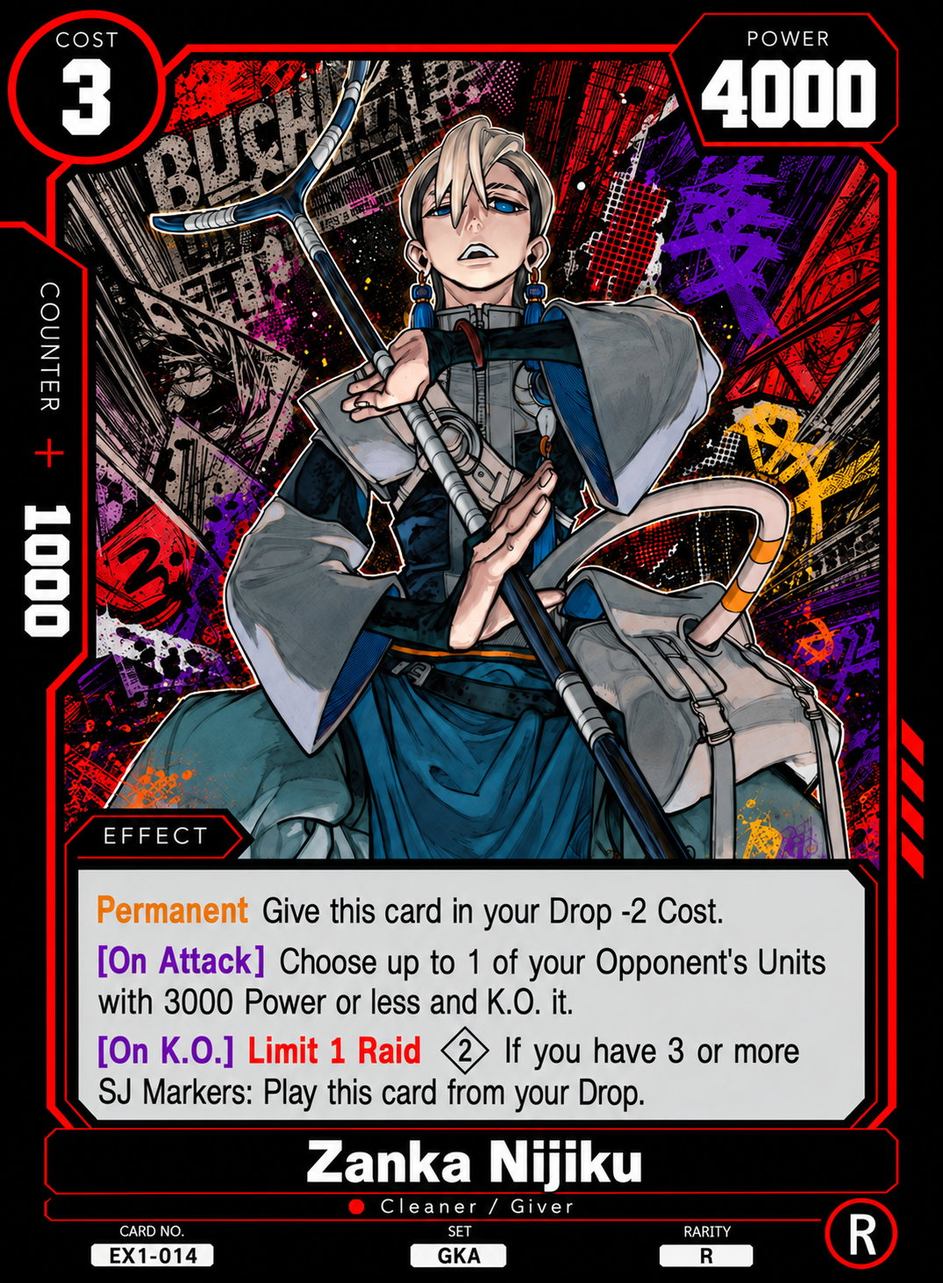
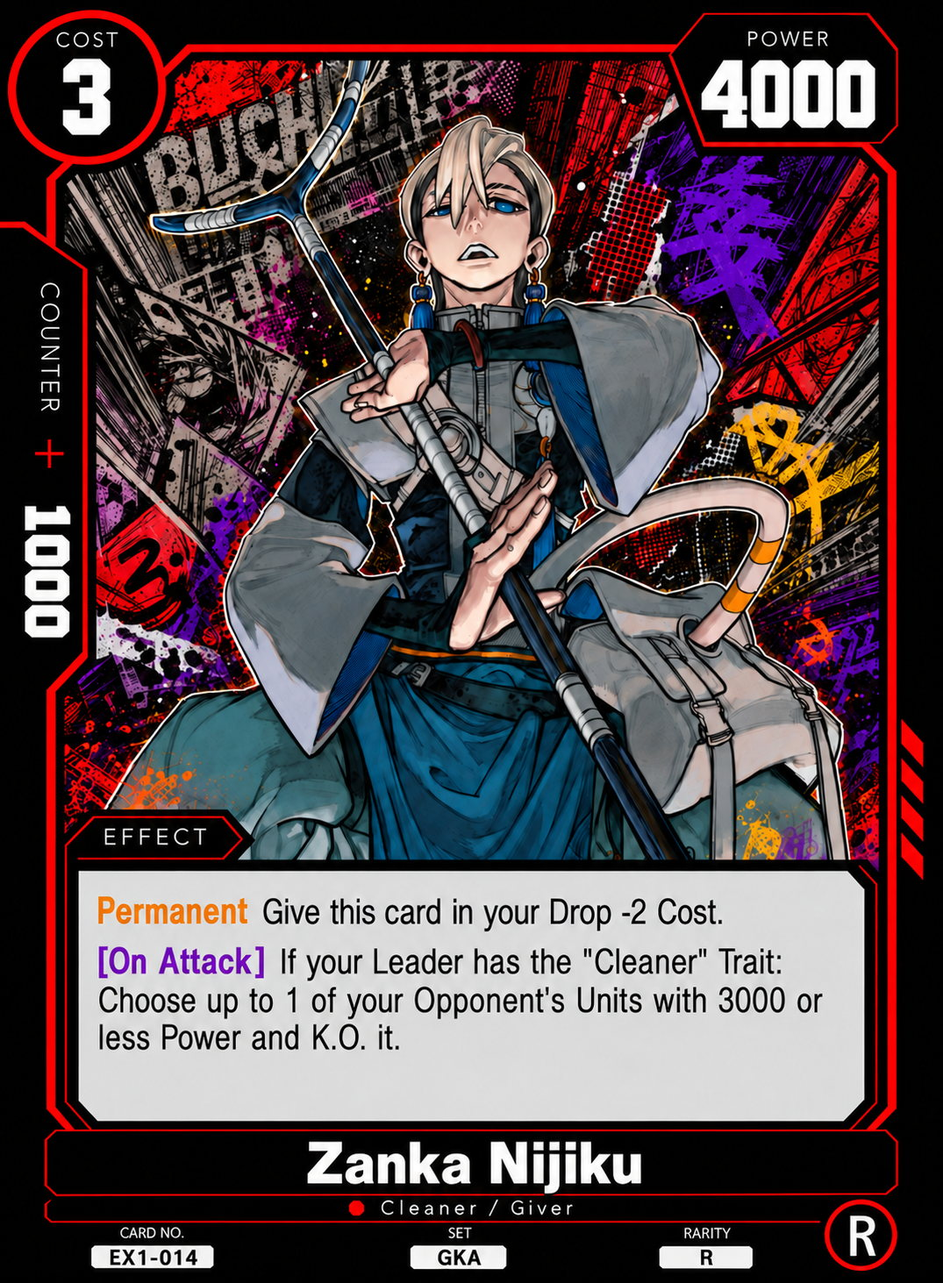
Apply latest ST1 cycle print fixes

diff --git a/card-text-data.js b/card-text-data.js
@@ -1958,7 +1958,7 @@ window.SJTCG_CARD_TEXT = {
     "card_no": "ST1-086",
     "name": "Asakura Yoh",
     "color": "Blue",
-    "cost": "1",
+    "cost": "2",
     "sj_cost": "",
     "life": "",
     "power": "2000",
@@ -1981,7 +1981,7 @@ window.SJTCG_CARD_TEXT = {
     "card_no": "ST1-087",
     "name": "Asakura Yoh",
     "color": "Blue",
-    "cost": "1",
+    "cost": "2",
     "sj_cost": "",
     "life": "",
     "power": "2000",
@@ -2036,8 +2036,8 @@ window.SJTCG_CARD_TEXT = {
     "set": "SMK",
     "rarity": "C",
     "bottom_right_circle": "B",
-    "effect": "[Your Turn] Give this card +1 Cost and +1000 Power for each card under it.\n[Activate: Main] Once per Turn Play 1 \"Amidamaru\" from under this card: Choose up to 1 of your Opponent's Units and give it -1 Cost for the turn.",
-    "effect_html": "<span class=\"kw kw-purple\" title=\"Timing window\">[Your Turn]</span> Give this card +1 Cost and +1000 Power for each card under it.<br><span class=\"kw kw-purple\" title=\"Timing window\">[Activate: Main]</span> <span class=\"kw kw-orange\" title=\"Once per Turn\">Once per Turn</span> Play 1 &quot;Amidamaru&quot; from under this card: Choose up to 1 of your Opponent&#x27;s Units and give it -1 Cost for the turn.",
+    "effect": "[Your Turn] Give this card +1 Cost and +1000 Power for each card under it.\n[Activate: Main] Limit 1 Play 1 \"Amidamaru\" from under this card: Choose up to 1 of your Opponent's Units and give it -1 Cost for the turn.",
+    "effect_html": "<span class=\"kw kw-purple\" title=\"Timing window\">[Your Turn]</span> Give this card +1 Cost and +1000 Power for each card under it.<br><span class=\"kw kw-purple\" title=\"Timing window\">[Activate: Main]</span> <span class=\"kw kw-red\" title=\"Limit X\">Limit 1</span> Play 1 &quot;Amidamaru&quot; from under this card: Choose up to 1 of your Opponent&#x27;s Units and give it -1 Cost for the turn.",
     "notes": "",
     "transcription_status": "verified",
     "release": "ST1",
@@ -2082,8 +2082,8 @@ window.SJTCG_CARD_TEXT = {
     "set": "SMK",
     "rarity": "C",
     "bottom_right_circle": "B",
-    "effect": "[Your Turn] Give this card +1 Cost and +1000 Power for each card under it.\n[Activate: Main] Once per Turn Play 1 \"Amidamaru\" from under this card: Choose up to 1 of your Opponent's Units with a Cost of 1 or less and place it at the bottom of its owner's Deck.",
-    "effect_html": "<span class=\"kw kw-purple\" title=\"Timing window\">[Your Turn]</span> Give this card +1 Cost and +1000 Power for each card under it.<br><span class=\"kw kw-purple\" title=\"Timing window\">[Activate: Main]</span> <span class=\"kw kw-orange\" title=\"Once per Turn\">Once per Turn</span> Play 1 &quot;Amidamaru&quot; from under this card: Choose up to 1 of your Opponent&#x27;s Units with a Cost of 1 or less and place it at the bottom of its owner&#x27;s Deck.",
+    "effect": "[Your Turn] Give this card +1 Cost and +1000 Power for each card under it.\n[Activate: Main] Limit 1 Play 1 \"Amidamaru\" from under this card: Choose up to 1 of your Opponent's Units with a Cost of 1 or less and place it at the bottom of its owner's Deck.",
+    "effect_html": "<span class=\"kw kw-purple\" title=\"Timing window\">[Your Turn]</span> Give this card +1 Cost and +1000 Power for each card under it.<br><span class=\"kw kw-purple\" title=\"Timing window\">[Activate: Main]</span> <span class=\"kw kw-red\" title=\"Limit X\">Limit 1</span> Play 1 &quot;Amidamaru&quot; from under this card: Choose up to 1 of your Opponent&#x27;s Units with a Cost of 1 or less and place it at the bottom of its owner&#x27;s Deck.",
     "notes": "",
     "transcription_status": "verified",
     "release": "ST1",
@@ -2105,8 +2105,8 @@ window.SJTCG_CARD_TEXT = {
     "set": "SMK",
     "rarity": "C",
     "bottom_right_circle": "B",
-    "effect": "[Opponent's Turn] Give this card +1 Cost and +1000 Power for each card under it.\n[On Attack] If there is a card under your Leader and this card: Choose all of your Opponent's Units and give them -1 Cost for the turn.\n[Activate: Main] Once per Turn Play 1 \"Amidamaru\" from under this card: At the end of the turn, switch this card to Active mode and give it Blocker until the end of your Opponent's next turn.",
-    "effect_html": "<span class=\"kw kw-purple\" title=\"Timing window\">[Opponent&#x27;s Turn]</span> Give this card +1 Cost and +1000 Power for each card under it.<br><span class=\"kw kw-purple\" title=\"Timing window\">[On Attack]</span> If there is a card under your Leader and this card: Choose all of your Opponent&#x27;s Units and give them -1 Cost for the turn.<br><span class=\"kw kw-purple\" title=\"Timing window\">[Activate: Main]</span> <span class=\"kw kw-orange\" title=\"Once per Turn\">Once per Turn</span> Play 1 &quot;Amidamaru&quot; from under this card: At the end of the turn, switch this card to Active mode and give it <span class=\"kw kw-red\" title=\"Blocker\">Blocker</span> until the end of your Opponent&#x27;s next turn.",
+    "effect": "[Opponent's Turn] Give this card +1 Cost and +1000 Power for each card under it.\n[Activate: Main] Once per Turn Play 1 \"Amidamaru\" from under this card: At the end of the turn, switch this card to Active mode and give it Blocker until the end of your Opponent's next turn.",
+    "effect_html": "<span class=\"kw kw-purple\" title=\"Timing window\">[Opponent&#x27;s Turn]</span> Give this card +1 Cost and +1000 Power for each card under it.<br><span class=\"kw kw-purple\" title=\"Timing window\">[Activate: Main]</span> <span class=\"kw kw-orange\" title=\"Once per Turn\">Once per Turn</span> Play 1 &quot;Amidamaru&quot; from under this card: At the end of the turn, switch this card to Active mode and give it <span class=\"kw kw-red\" title=\"Blocker\">Blocker</span> until the end of your Opponent&#x27;s next turn.",
     "notes": "",
     "transcription_status": "verified",
     "release": "ST1",
@@ -14277,10 +14277,10 @@ window.SJTCG_CARD_TEXT = {
     "counter": "1000",
     "traits": "Cleaner / Giver",
     "set": "GKA",
-    "rarity": "SR",
+    "rarity": "R",
     "bottom_right_circle": "R",
-    "effect": "[Your Turn] Give this card +1000 Power for every 2 of your SJ Markers.\n[Activate: Main] Raid {1} Give this card Unblockable for the turn.",
-    "effect_html": "<span class=\"kw kw-purple\" title=\"Timing window\">[Your Turn]</span> Give this card +1000 Power for every 2 of your SJ Markers.<br><span class=\"kw kw-purple\" title=\"Timing window\">[Activate: Main]</span> <span class=\"kw kw-red\" title=\"Raid\">Raid</span> {1} Give this card <span class=\"kw kw-red\" title=\"Unblockable\">Unblockable</span> for the turn.",
+    "effect": "Permanent Give this card +1000 Power for each of your SJ Markers.\n[Activate: Main] Raid {1} Give this card Unblockable for the turn.",
+    "effect_html": "<span class=\"kw kw-orange\" title=\"Permanent\">Permanent</span> Give this card +1000 Power for each of your SJ Markers.<br><span class=\"kw kw-purple\" title=\"Timing window\">[Activate: Main]</span> <span class=\"kw kw-red\" title=\"Raid\">Raid</span> {1} Give this card <span class=\"kw kw-red\" title=\"Unblockable\">Unblockable</span> for the turn.",
     "notes": "",
     "transcription_status": "verified",
     "release": "EX1",
@@ -14394,8 +14394,8 @@ window.SJTCG_CARD_TEXT = {
     "set": "GKA",
     "rarity": "R",
     "bottom_right_circle": "R",
-    "effect": "Permanent Give this card in your Drop -2 Cost.\n[On Attack] Choose up to 1 of your Opponent's Units with 3000 Power or less and K.O. it.\n[On K.O.] Limit 1 Raid {2} If you have 3 or more SJ Markers: Play this card from your Drop.",
-    "effect_html": "<span class=\"kw kw-orange\" title=\"Permanent\">Permanent</span> Give this card in your Drop -2 Cost.<br><span class=\"kw kw-purple\" title=\"Timing window\">[On Attack]</span> Choose up to 1 of your Opponent&#x27;s Units with 3000 Power or less and K.O. it.<br><span class=\"kw kw-purple\" title=\"Timing window\">[On K.O.]</span> <span class=\"kw kw-red\" title=\"Limit X\">Limit 1</span> <span class=\"kw kw-red\" title=\"Raid\">Raid</span> {2} If you have 3 or more SJ Markers: Play this card from your Drop.",
+    "effect": "Permanent Give this card in your Drop -2 Cost.\n[On Attack] If your Leader has the \"Cleaner\" Trait: Choose up to 1 of your Opponent's Units with 3000 or less Power and K.O. it.",
+    "effect_html": "<span class=\"kw kw-orange\" title=\"Permanent\">Permanent</span> Give this card in your Drop -2 Cost.<br><span class=\"kw kw-purple\" title=\"Timing window\">[On Attack]</span> If your Leader has the &quot;Cleaner&quot; Trait: Choose up to 1 of your Opponent&#x27;s Units with 3000 or less Power and K.O. it.",
     "notes": "",
     "transcription_status": "verified",
     "release": "EX1",
@@ -14440,8 +14440,8 @@ window.SJTCG_CARD_TEXT = {
     "set": "GKA",
     "rarity": "R",
     "bottom_right_circle": "R",
-    "effect": "[Activate: Battle] Give your card that's in a battle +1000 Power for each of your SJ Markers.",
-    "effect_html": "<span class=\"kw kw-purple\" title=\"Timing window\">[Activate: Battle]</span> Give your card that&#x27;s in a battle +1000 Power for each of your SJ Markers.",
+    "effect": "[Activate: Battle] Give your \"Riyo Reaper\" that's in a battle +1000 Power for each of your SJ Markers for the battle.\n[Activate: Main] Limit 1 If your Leader has the \"Cleaner\" Trait: Remove this card in your Drop from the game and, if you have 1 or less SJ Markers, Accelcharge 1.",
+    "effect_html": "<span class=\"kw kw-purple\" title=\"Timing window\">[Activate: Battle]</span> Give your &quot;Riyo Reaper&quot; that&#x27;s in a battle +1000 Power for each of your SJ Markers for the battle.<br><span class=\"kw kw-purple\" title=\"Timing window\">[Activate: Main]</span> <span class=\"kw kw-red\" title=\"Limit X\">Limit 1</span> If your Leader has the &quot;Cleaner&quot; Trait: Remove this card in your Drop from the game and, if you have 1 or less SJ Markers, <span class=\"kw kw-orange\" title=\"Accelcharge\">Accelcharge</span> 1.",
     "notes": "",
     "transcription_status": "verified",
     "release": "EX1",
@@ -14463,8 +14463,8 @@ window.SJTCG_CARD_TEXT = {
     "set": "GKA",
     "rarity": "R",
     "bottom_right_circle": "R",
-    "effect": "[Activate: Main] Limit 1 Remove 1 SJ Marker: Give all Unit cards with the \"Cleaner\" Trait in your Drop -1 Cost for the turn.\nClash [Opponent's Attack] (1) Give your card that's in a battle +2000 Power for the battle.",
-    "effect_html": "<span class=\"kw kw-purple\" title=\"Timing window\">[Activate: Main]</span> <span class=\"kw kw-red\" title=\"Limit X\">Limit 1</span> Remove 1 SJ Marker: Give all Unit cards with the &quot;Cleaner&quot; Trait in your Drop -1 Cost for the turn.<br><span class=\"kw kw-green\" title=\"Clash\">Clash</span> <span class=\"kw kw-purple\" title=\"Timing window\">[Opponent&#39;s Attack]</span> (1) Give your card that&#39;s in a battle +2000 Power for the battle.",
+    "effect": "[Activate: Main] Limit 1 Remove 1 SJ Marker: Give all Unit cards with a Cost of 7 or less and the \"Cleaner\" Trait in your Drop -1 Cost for the turn.\nClash [Opponent's Attack] (1) Give your card that's in a battle +2000 Power for the battle.",
+    "effect_html": "<span class=\"kw kw-purple\" title=\"Timing window\">[Activate: Main]</span> <span class=\"kw kw-red\" title=\"Limit X\">Limit 1</span> Remove 1 SJ Marker: Give all Unit cards with a Cost of 7 or less and the &quot;Cleaner&quot; Trait in your Drop -1 Cost for the turn.<br><span class=\"kw kw-green\" title=\"Clash\">Clash</span> <span class=\"kw kw-purple\" title=\"Timing window\">[Opponent&#x27;s Attack]</span> (1) Give your card that&#x27;s in a battle +2000 Power for the battle.",
     "notes": "",
     "transcription_status": "verified",
     "release": "EX1",
@@ -14532,8 +14532,8 @@ window.SJTCG_CARD_TEXT = {
     "set": "GKA",
     "rarity": "R",
     "bottom_right_circle": "R",
-    "effect": "[On Play] If your Leader has the \"Cleaner\" Trait, choose all of your Opponent's Units and give them -2000 Power until the end of your Opponent's next turn.\nClash [Opponent's Attack] (1) If you have 3 or more SJ Markers: Return this card to your JUMP Deck; Negate the attack. Then, shuffle up to 5 Unit cards with the \"Cleaner\" Trait from your Drop into your Deck.",
-    "effect_html": "<span class=\"kw kw-purple\" title=\"Timing window\">[On Play]</span> If your Leader has the &quot;Cleaner&quot; Trait, choose all of your Opponent&#x27;s Units and give them -2000 Power until the end of your Opponent&#x27;s next turn.<br><span class=\"kw kw-green\" title=\"Clash\">Clash</span> <span class=\"kw kw-purple\" title=\"Timing window\">[Opponent&#x27;s Attack]</span> (1) If you have 3 or more SJ Markers: Return this card to your JUMP Deck; Negate the attack. Then, shuffle up to 5 Unit cards with the &quot;Cleaner&quot; Trait from your Drop into your Deck.",
+    "effect": "[On Play] If your Leader has the \"Cleaner\" Trait: Choose all of your Opponent's Units and give them -1000 Power until the end of your Opponent's next turn.\nClash [Opponent's Attack] (1) Remove this card from the game: Negate the attack. Then, shuffle up to 5 Unit cards with the \"Cleaner\" Trait from your Drop into your Deck.",
+    "effect_html": "<span class=\"kw kw-purple\" title=\"Timing window\">[On Play]</span> If your Leader has the &quot;Cleaner&quot; Trait: Choose all of your Opponent&#x27;s Units and give them -1000 Power until the end of your Opponent&#x27;s next turn.<br><span class=\"kw kw-green\" title=\"Clash\">Clash</span> <span class=\"kw kw-purple\" title=\"Timing window\">[Opponent&#x27;s Attack]</span> (1) Remove this card from the game: Negate the attack. Then, shuffle up to 5 Unit cards with the &quot;Cleaner&quot; Trait from your Drop into your Deck.",
     "notes": "",
     "transcription_status": "verified",
     "release": "EX1",
@@ -17407,8 +17407,8 @@ window.SJTCG_CARD_TEXT = {
     "set": "JBA",
     "rarity": "C",
     "bottom_right_circle": "P",
-    "effect": "[On Play] Give 1 of your Units -1000 Power for the turn: Give your Leader +1000 Power for the turn.\n[Activate: Main] If your Leader is \"Toru\": Remove this card from the game and add 1 card from your Life to your hand; your Opponent adds a card from their Life to their hand. Then, you may add up to 1 card from your hand at the top of your Life; your Opponent places that many cards from their hand at the top of their Life.",
-    "effect_html": "<span class=\"kw kw-purple\" title=\"Timing window\">[On Play]</span> Give 1 of your Units -1000 Power for the turn: Give your Leader +1000 Power for the turn.<br><span class=\"kw kw-purple\" title=\"Timing window\">[Activate: Main]</span> If your Leader is &quot;Toru&quot;: Remove this card from the game and add 1 card from your Life to your hand; your Opponent adds a card from their Life to their hand. Then, you may add up to 1 card from your hand at the top of your Life; your Opponent places that many cards from their hand at the top of their Life.",
+    "effect": "[On Play] Give 1 of your Units -1000 Power for the turn: Give your Leader +1000 Power for the turn.\n[Activate: Main] Remove this card from the game and add 1 card from your Life to your hand: If your Leader is \"Toru\", add a card from your Life to your hand; your Opponent adds a card from their Life to their hand. Then, your Opponent may add a card from their hand at the top of their Life and, if they do, add a card from your hand at the top of your Life.",
+    "effect_html": "<span class=\"kw kw-purple\" title=\"Timing window\">[On Play]</span> Give 1 of your Units -1000 Power for the turn: Give your Leader +1000 Power for the turn.<br><span class=\"kw kw-purple\" title=\"Timing window\">[Activate: Main]</span> Remove this card from the game and add 1 card from your Life to your hand: If your Leader is &quot;Toru&quot;, add a card from your Life to your hand; your Opponent adds a card from their Life to their hand. Then, your Opponent may add a card from their hand at the top of their Life and, if they do, add a card from your hand at the top of your Life.",
     "notes": "",
     "transcription_status": "verified",
     "release": "SD2",
@@ -23083,8 +23083,8 @@ window.SJTCG_CARD_TEXT = {
     "set": "HNI",
     "rarity": "P",
     "bottom_right_circle": "R",
-    "effect": "[On Play] Give your Leader or up to 1 of your Units with the \"Boxer\" Trait +1000 Power for the turn.\n[Activate: Main] Limit 1 Return this card to your JUMP Deck: Choose up to 1 of your Opponent's Units and give it -5000 Power for the turn.",
-    "effect_html": "<span class=\"kw kw-purple\" title=\"Timing window\">[On Play]</span> Give your Leader or up to 1 of your Units with the &quot;Boxer&quot; Trait +1000 Power for the turn.<br><span class=\"kw kw-purple\" title=\"Timing window\">[Activate: Main]</span> <span class=\"kw kw-red\" title=\"Limit X\">Limit 1</span> Return this card to your JUMP Deck: Choose up to 1 of your Opponent&#x27;s Units and give it -5000 Power for the turn.",
+    "effect": "[On Play] Give your Leader or up to 1 of your Units with the \"Boxer\" Trait +1000 Power for the turn.\n[Activate: Main] Limit 1 Return this card to your JUMP Deck: Choose up to 1 of your Opponent's Units and give it -2000 Power for the turn.",
+    "effect_html": "<span class=\"kw kw-purple\" title=\"Timing window\">[On Play]</span> Give your Leader or up to 1 of your Units with the &quot;Boxer&quot; Trait +1000 Power for the turn.<br><span class=\"kw kw-purple\" title=\"Timing window\">[Activate: Main]</span> <span class=\"kw kw-red\" title=\"Limit X\">Limit 1</span> Return this card to your JUMP Deck: Choose up to 1 of your Opponent&#x27;s Units and give it -2000 Power for the turn.",
     "notes": "",
     "transcription_status": "verified",
     "release": "PUP",
@@ -23221,8 +23221,8 @@ window.SJTCG_CARD_TEXT = {
     "set": "SMK",
     "rarity": "P",
     "bottom_right_circle": "B",
-    "effect": "Barrier Blocker\n[On Play / On Block] You may place 1 card from under your Leader in your Drop: Give up to 1 of your \"Asakura Yoh\" +1000 Power for the turn.\n[Activate: Battle] Remove all cards from under this card from the game: Choose up to 1 of your Opponent's Units, ignoring Barrier, and place it at the bottom of its owner's Deck.",
-    "effect_html": "<span class=\"kw kw-red\" title=\"Barrier\">Barrier</span> <span class=\"kw kw-red\" title=\"Blocker\">Blocker</span><br><span class=\"kw kw-purple\" title=\"Timing window\">[On Play / On Block]</span> You may place 1 card from under your Leader in your Drop: Give up to 1 of your &quot;Asakura Yoh&quot; +1000 Power for the turn.<br><span class=\"kw kw-purple\" title=\"Timing window\">[Activate: Battle]</span> Remove all cards from under this card from the game: Choose up to 1 of your Opponent&#39;s Units, ignoring <span class=\"kw kw-red\" title=\"Barrier\">Barrier</span>, and place it at the bottom of its owner&#39;s Deck.",
+    "effect": "Blocker\n[On Play / On Block] You may place 1 card from under your Leader in your Drop: Give up to 1 of your \"Asakura Yoh\" +1000 Power for the turn.\n[Activate: Battle] Remove all cards from under this card from the game: Choose up to 1 of your Opponent's Units and return it to its owner's hand.",
+    "effect_html": "<span class=\"kw kw-red\" title=\"Blocker\">Blocker</span><br><span class=\"kw kw-purple\" title=\"Timing window\">[On Play / On Block]</span> You may place 1 card from under your Leader in your Drop: Give up to 1 of your &quot;Asakura Yoh&quot; +1000 Power for the turn.<br><span class=\"kw kw-purple\" title=\"Timing window\">[Activate: Battle]</span> Remove all cards from under this card from the game: Choose up to 1 of your Opponent&#x27;s Units and return it to its owner&#x27;s hand.",
     "notes": "",
     "transcription_status": "verified",
     "release": "PUP",
@@ -23336,8 +23336,8 @@ window.SJTCG_CARD_TEXT = {
     "set": "JBA",
     "rarity": "P",
     "bottom_right_circle": "P",
-    "effect": "Permanent If your Leader is \"Higashikata Josuke\", reduce the Cost and SJ Cost of this card in your JUMP Deck by 4.\n[Activate: Main] If you have no Life cards and you remove this card from the game: Choose up to 1 of your Opponent's Rested Units, ignoring Barrier, and remove it from the game.\nClash [Opponent's Attack] (1) Remove 1 of your Opponent's Energy.",
-    "effect_html": "<span class=\"kw kw-orange\" title=\"Permanent\">Permanent</span> If your Leader is &quot;Higashikata Josuke&quot;, reduce the Cost and SJ Cost of this card in your JUMP Deck by 4.<br><span class=\"kw kw-purple\" title=\"Timing window\">[Activate: Main]</span> If you have no Life cards and you remove this card from the game: Choose up to 1 of your Opponent&#x27;s Rested Units, ignoring <span class=\"kw kw-red\" title=\"Barrier\">Barrier</span>, and remove it from the game.<br><span class=\"kw kw-green\" title=\"Clash\">Clash</span> <span class=\"kw kw-purple\" title=\"Timing window\">[Opponent&#x27;s Attack]</span> (1) Remove 1 of your Opponent&#x27;s Energy.",
+    "effect": "Permanent If your Leader is \"Higashikata Josuke\", reduce the Cost and SJ Cost of this card in your JUMP Deck by 4.\n[Activate: Main] If you have no Life cards and you remove this card from the game: Choose up to 1 of your Opponent's Rested Units, ignoring Barrier, and remove it from the game.",
+    "effect_html": "<span class=\"kw kw-orange\" title=\"Permanent\">Permanent</span> If your Leader is &quot;Higashikata Josuke&quot;, reduce the Cost and SJ Cost of this card in your JUMP Deck by 4.<br><span class=\"kw kw-purple\" title=\"Timing window\">[Activate: Main]</span> If you have no Life cards and you remove this card from the game: Choose up to 1 of your Opponent&#x27;s Rested Units, ignoring <span class=\"kw kw-red\" title=\"Barrier\">Barrier</span>, and remove it from the game.",
     "notes": "",
     "transcription_status": "verified",
     "release": "PUP",
@@ -23373,7 +23373,7 @@ window.SJTCG_CARD_TEXT = {
     "card_no": "PUP-019",
     "name": "Fu Ororstor",
     "color": "Red",
-    "cost": "4",
+    "cost": "3",
     "sj_cost": "",
     "life": "",
     "power": "3000",
@@ -23382,8 +23382,8 @@ window.SJTCG_CARD_TEXT = {
     "set": "GKA",
     "rarity": "P",
     "bottom_right_circle": "R",
-    "effect": "Permanent Give this card in your Drop -2 Cost.\n[On Play] Limit 1 Choose up to 1 of your Opponent's Units and give it -2000 Power for the turn.\n[On K.O.] Raid {1} Add this card from your Drop to your hand.",
-    "effect_html": "<span class=\"kw kw-orange\" title=\"Permanent\">Permanent</span> Give this card in your Drop -2 Cost.<br><span class=\"kw kw-purple\" title=\"Timing window\">[On Play]</span> <span class=\"kw kw-red\" title=\"Limit X\">Limit 1</span> Choose up to 1 of your Opponent&#x27;s Units and give it -2000 Power for the turn.<br><span class=\"kw kw-purple\" title=\"Timing window\">[On K.O.]</span> <span class=\"kw kw-red\" title=\"Raid\">Raid</span> {1} Add this card from your Drop to your hand.",
+    "effect": "Permanent Give this card in your Drop -1 Cost.\n[On Play] Choose up to 1 of your Opponent's Units and give it -2000 Power for the turn.",
+    "effect_html": "<span class=\"kw kw-orange\" title=\"Permanent\">Permanent</span> Give this card in your Drop -1 Cost.<br><span class=\"kw kw-purple\" title=\"Timing window\">[On Play]</span> Choose up to 1 of your Opponent&#x27;s Units and give it -2000 Power for the turn.",
     "notes": "",
     "transcription_status": "verified",
     "release": "PUP",
@@ -23428,8 +23428,8 @@ window.SJTCG_CARD_TEXT = {
     "set": "JBA",
     "rarity": "P",
     "bottom_right_circle": "P",
-    "effect": "Unique Barrier\n[On Play] If your Leader is \"Toru\", look at the top 3 cards of your Deck; place up to 1 card at the top of your Deck. Then, place the rest at the bottom of your Deck in any order.\n[Opponent's Turn] If one of your Units with the \"Rock Human\" or \"Calamity\" Trait would be removed from your field by your Opponent's skill, you may place this card in your Drop instead.",
-    "effect_html": "<span class=\"kw kw-red\" title=\"Unique\">Unique</span> <span class=\"kw kw-red\" title=\"Barrier\">Barrier</span><br><span class=\"kw kw-purple\" title=\"Timing window\">[On Play]</span> If your Leader is &quot;Toru&quot;, look at the top 3 cards of your Deck; place up to 1 card at the top of your Deck. Then, place the rest at the bottom of your Deck in any order.<br><span class=\"kw kw-purple\" title=\"Timing window\">[Opponent&#39;s Turn]</span> If one of your Units with the &quot;Rock Human&quot; or &quot;Calamity&quot; Trait would be removed from your field by your Opponent&#39;s skill, you may place this card in your Drop instead.",
+    "effect": "Unique Barrier\n[Opponent's Turn] If 1 of your Units with the \"Rock Human\" or \"Calamity\" Trait would be removed from your field by your Opponent's skill(s), you may place this card in your Drop instead.\n[On Play] If your Leader is \"Toru\": Look at the top 3 cards of your Deck; place up to 1 card at the top of your Deck. Then, place the rest at the bottom of your Deck in any order.",
+    "effect_html": "<span class=\"kw kw-red\" title=\"Unique\">Unique</span> <span class=\"kw kw-red\" title=\"Barrier\">Barrier</span><br><span class=\"kw kw-purple\" title=\"Timing window\">[Opponent&#x27;s Turn]</span> If 1 of your Units with the &quot;Rock Human&quot; or &quot;Calamity&quot; Trait would be removed from your field by your Opponent&#x27;s skill(s), you may place this card in your Drop instead.<br><span class=\"kw kw-purple\" title=\"Timing window\">[On Play]</span> If your Leader is &quot;Toru&quot;: Look at the top 3 cards of your Deck; place up to 1 card at the top of your Deck. Then, place the rest at the bottom of your Deck in any order.",
     "notes": "Downloaded from live image URL because PUP-021 was not present in the local zip image folder.",
     "transcription_status": "verified",
     "release": "PUP",

diff --git a/cards-data.js b/cards-data.js
@@ -129,7 +129,7 @@ window.SJTCG_CARD_DATA = [
     "cardType": "Main Deck",
     "deckLimit": 4,
     "orientation": "Portrait",
-    "imageVersion": "377da3b96d8a"
+    "imageVersion": "5f489a7af46a"
   },
   {
     "number": "EX1-010",
@@ -197,7 +197,7 @@ window.SJTCG_CARD_DATA = [
     "cardType": "Main Deck",
     "deckLimit": 4,
     "orientation": "Portrait",
-    "imageVersion": "e7387394d86a"
+    "imageVersion": "42546bd9858f"
   },
   {
     "number": "EX1-015",
@@ -221,7 +221,7 @@ window.SJTCG_CARD_DATA = [
     "cardType": "Main Deck",
     "deckLimit": 4,
     "orientation": "Portrait",
-    "imageVersion": "a0fb4157b795"
+    "imageVersion": "bfbc4a7cea20"
   },
   {
     "number": "EX1-017",
@@ -233,7 +233,7 @@ window.SJTCG_CARD_DATA = [
     "cardType": "Main Deck",
     "deckLimit": 4,
     "orientation": "Portrait",
-    "imageVersion": "69b348b9f139"
+    "imageVersion": "5d217c75d10d"
   },
   {
     "number": "EX1-018",
@@ -269,7 +269,7 @@ window.SJTCG_CARD_DATA = [
     "cardType": "Main Deck",
     "deckLimit": 1,
     "orientation": "Landscape",
-    "imageVersion": "7250d5c20285"
+    "imageVersion": "6379cd9ade91"
   },
   {
     "number": "EX1-021",
@@ -2625,7 +2625,7 @@ window.SJTCG_CARD_DATA = [
     "cardType": "Main Deck",
     "deckLimit": 1,
     "orientation": "Landscape",
-    "imageVersion": "7830b462e72c"
+    "imageVersion": "64f5f9016405"
   },
   {
     "number": "PUP-007",
@@ -2697,7 +2697,7 @@ window.SJTCG_CARD_DATA = [
     "cardType": "Main Deck",
     "deckLimit": 1,
     "orientation": "Portrait",
-    "imageVersion": "b1b9b691ed7c"
+    "imageVersion": "530c38afa163"
   },
   {
     "number": "PUP-013",
@@ -2757,7 +2757,7 @@ window.SJTCG_CARD_DATA = [
     "cardType": "Main Deck",
     "deckLimit": 1,
     "orientation": "Landscape",
-    "imageVersion": "1f45abb3adcb"
+    "imageVersion": "55d84bf5c4f9"
   },
   {
     "number": "PUP-018",
@@ -2781,7 +2781,7 @@ window.SJTCG_CARD_DATA = [
     "cardType": "Main Deck",
     "deckLimit": 4,
     "orientation": "Portrait",
-    "imageVersion": "102c0b5eb6b0"
+    "imageVersion": "36bafd4c9084"
   },
   {
     "number": "PUP-020",
@@ -2805,7 +2805,7 @@ window.SJTCG_CARD_DATA = [
     "cardType": "Main Deck",
     "deckLimit": 4,
     "orientation": "Portrait",
-    "imageVersion": "4fad5e1a9879"
+    "imageVersion": "3d40b48a7c90"
   },
   {
     "number": "PUP-022",
@@ -5165,7 +5165,7 @@ window.SJTCG_CARD_DATA = [
     "cardType": "Main Deck",
     "deckLimit": 1,
     "orientation": "Landscape",
-    "imageVersion": "4dd12eaab15a"
+    "imageVersion": "0c6f3ed53ebb"
   },
   {
     "number": "SD3-001",
@@ -8256,7 +8256,7 @@ window.SJTCG_CARD_DATA = [
     "cardType": "Main Deck",
     "deckLimit": 4,
     "orientation": "Portrait",
-    "imageVersion": "04d6ddcb71b4"
+    "imageVersion": "8e26c18da07b"
   },
   {
     "number": "ST1-087",
@@ -8268,7 +8268,7 @@ window.SJTCG_CARD_DATA = [
     "cardType": "Main Deck",
     "deckLimit": 4,
     "orientation": "Portrait",
-    "imageVersion": "6226a00f54a8"
+    "imageVersion": "081bc1ec05ed"
   },
   {
     "number": "ST1-088",
@@ -8300,7 +8300,7 @@ window.SJTCG_CARD_DATA = [
     "cardType": "Main Deck",
     "deckLimit": 4,
     "orientation": "Portrait",
-    "imageVersion": "b62b40b852a3"
+    "imageVersion": "108eacf50e98"
   },
   {
     "number": "ST1-090",
@@ -8332,7 +8332,7 @@ window.SJTCG_CARD_DATA = [
     "cardType": "Main Deck",
     "deckLimit": 4,
     "orientation": "Portrait",
-    "imageVersion": "f11b1f7e00d9"
+    "imageVersion": "46365c41af92"
   },
   {
     "number": "ST1-092",
@@ -8344,7 +8344,7 @@ window.SJTCG_CARD_DATA = [
     "cardType": "Main Deck",
     "deckLimit": 4,
     "orientation": "Portrait",
-    "imageVersion": "56dd9af05bdc"
+    "imageVersion": "b89886a196e5"
   },
   {
     "number": "ST1-093",

diff --git a/index.html b/index.html
@@ -214,8 +214,8 @@
     </section>
   </div>
 
-  <script src="cards-data.js?v=51dfa38afe2a"></script>
-  <script src="card-text-data.js?v=e4b3804dccdf"></script>
+  <script src="cards-data.js?v=b6bd0ed95ceb"></script>
+  <script src="card-text-data.js?v=20f251911125"></script>
   <script src="app.js?v=20261009-reprint-search-2"></script>
 </body>
 </html>
